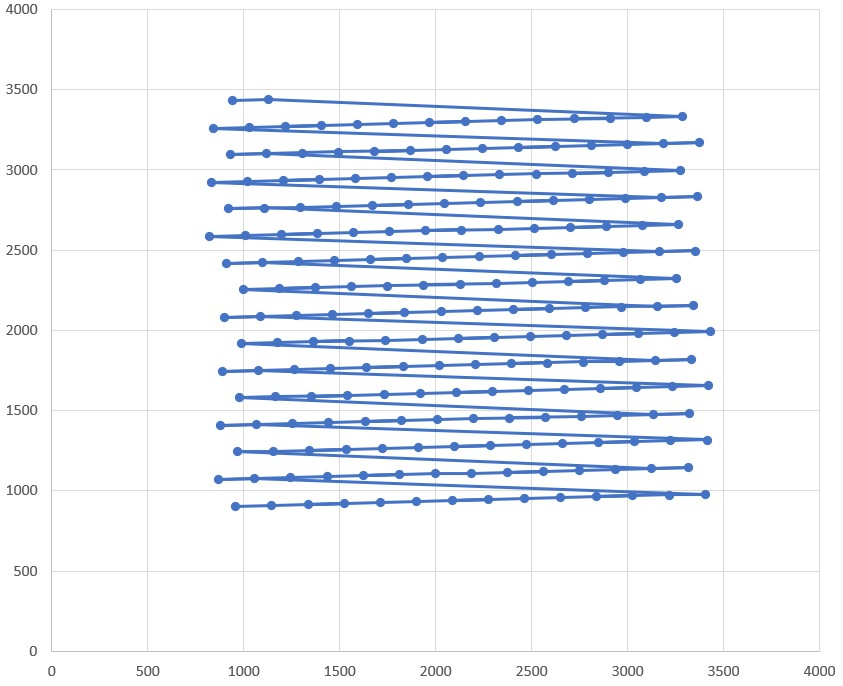
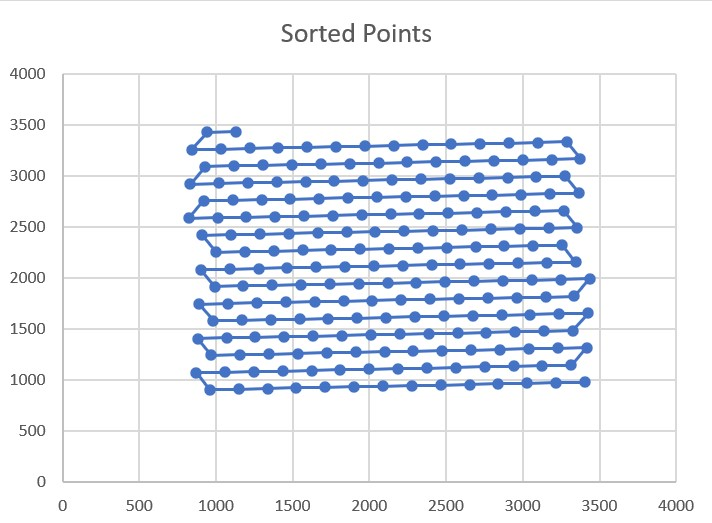
updated readme

diff --git a/readme.md b/readme.md
@@ -34,31 +34,34 @@
 
 3. **Raster Scan Sort Function:**
    ```c
-   void rasterScanSort(struct Point arr[], int n, int eps) {
-       insertionSort(arr, n, 'y', 0); // sort by y-coordinate descending
+   void rasterScanSort(struct Point arr[], int n, int dyThresh, int dxThresh) {
+        insertionSort(arr, n, 'y', 0); // sort by y-coordinate descending
 
-       int i = 0;
-       int ascending = 1; // flag used to alternate ascending/descending sort
-       while (i < n) {
-           int j = i + 1;
-           while (j < n && abs(arr[j].y - arr[i].y) <= eps) { // consider rows to be points where dy<eps
-               j++;
-           }
-           if (ascending) {
-               insertionSort(&arr[i], j - i, 'x', 1); // sort x in row ascending 
-           } else {
-               insertionSort(&arr[i], j - i, 'x', 0); // sort x in row descending
-           }
-           ascending = !ascending; // reverse the flag
-           i = j;
-       }
-   }
+        int i = 0;
+        int ascending = 1; // flag used to alternate ascending/descending sort
+        while (i < n) {
+            int j = i + 1;
+            while (j < n && abs(arr[j].y - arr[i].y) <= dyThresh) { // consider rows to be points where dy<dyThresh
+                j++;
+            }
+            if (ascending) {
+                insertionSort(&arr[i], j-i, 'x', 1); // sort x in row ascending
+            } else {
+                insertionSort(&arr[i], j-i, 'x', 0); // sort x in row descending
+            }
+            ascending = !ascending; // reverse the flag
+            i = j;
+        }
+
+        reverseAlternateRowsOnXJump(arr, n, dxThresh); // create serpentine pattern by reversing alternate rows where dx>dxThresh
+    }
    ```
    This function sorts the array of `Point` structures using a raster scan approach. It first sorts all points based on the y-coordinate in descending order. Then, it iterates through the points, defining rows as points where the difference in y-coordinate (`dy`) is less than or equal to `eps`.
 
    Within each row, it alternates between sorting the points' x-coordinates in ascending or descending order based on the `ascending` flag. After sorting each row, it toggles the `ascending` flag and moves to the next row.
 
-Overall, this code effectively sorts an arbitrary number of 2D points based on the specified coordinate direction and order using insertion sort and the raster scan approach.
+   At the end, of this `while()` loop, alternate rows are reversed based on a jump in the x-coordinate. This jump defines what constitutes a new row. We reverse the row to create a serpentine pattern, removing 'carriage-returns'.
+
 
 **Unsorted Points**
 
